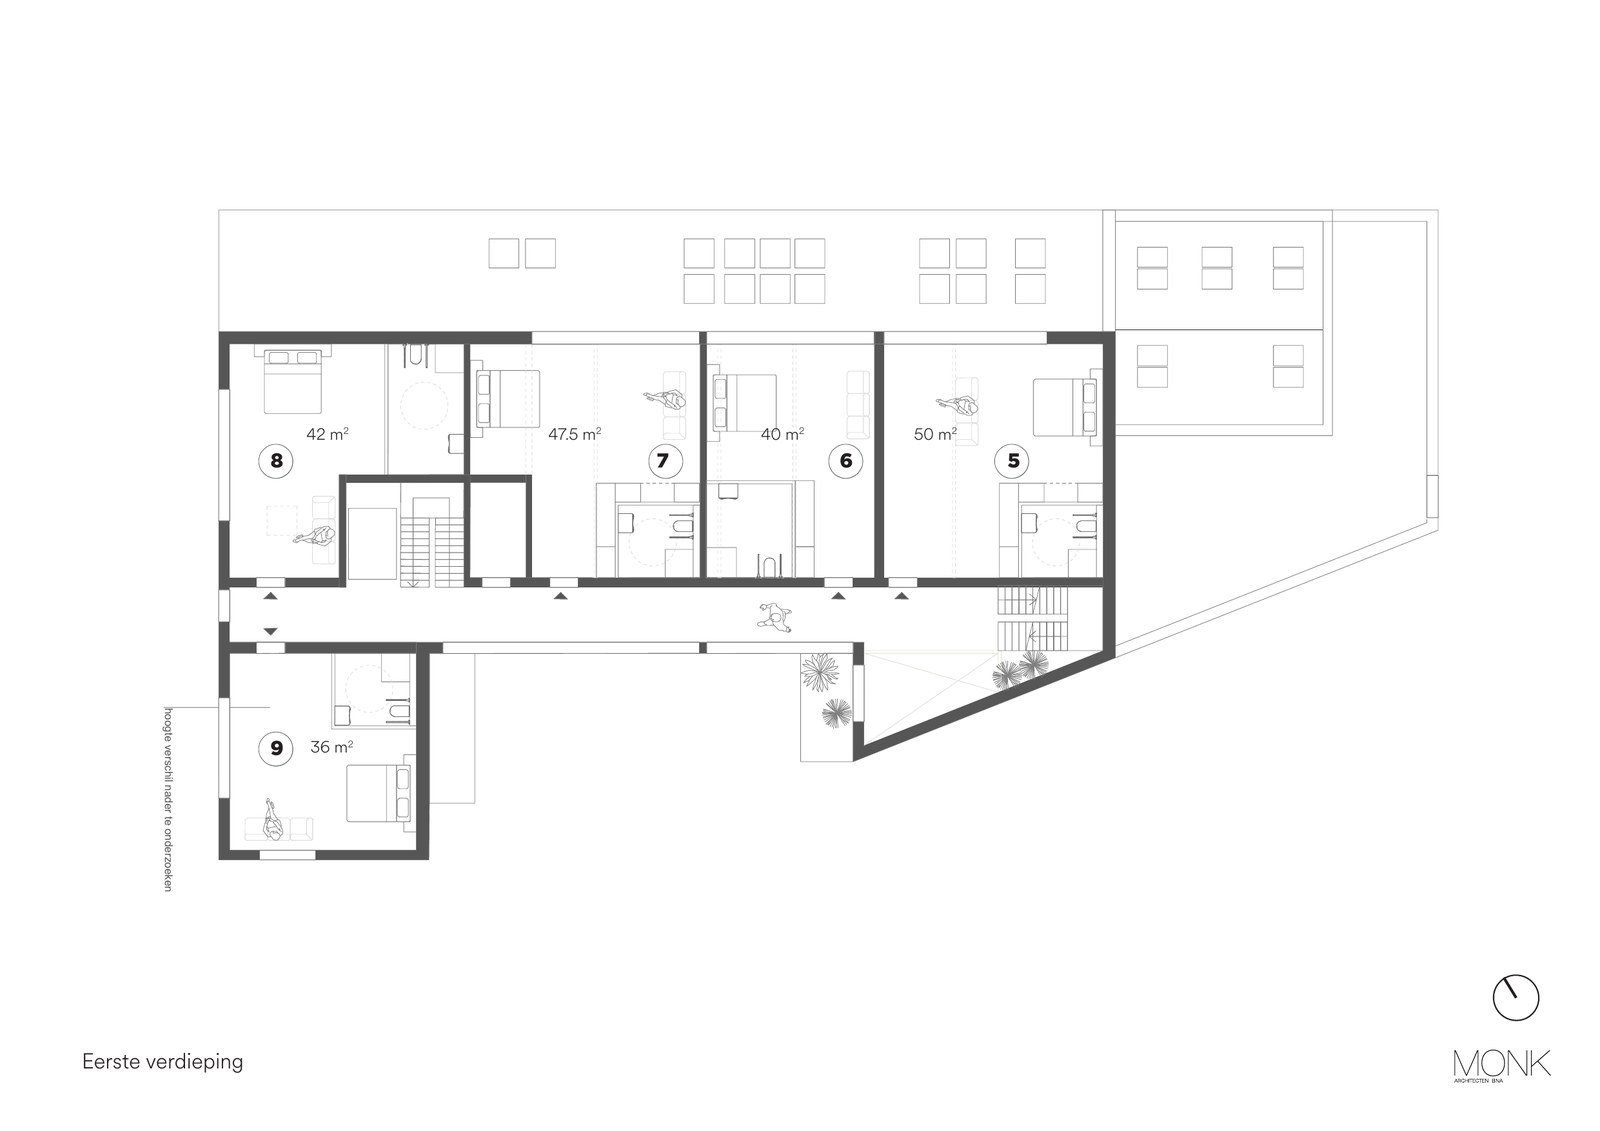
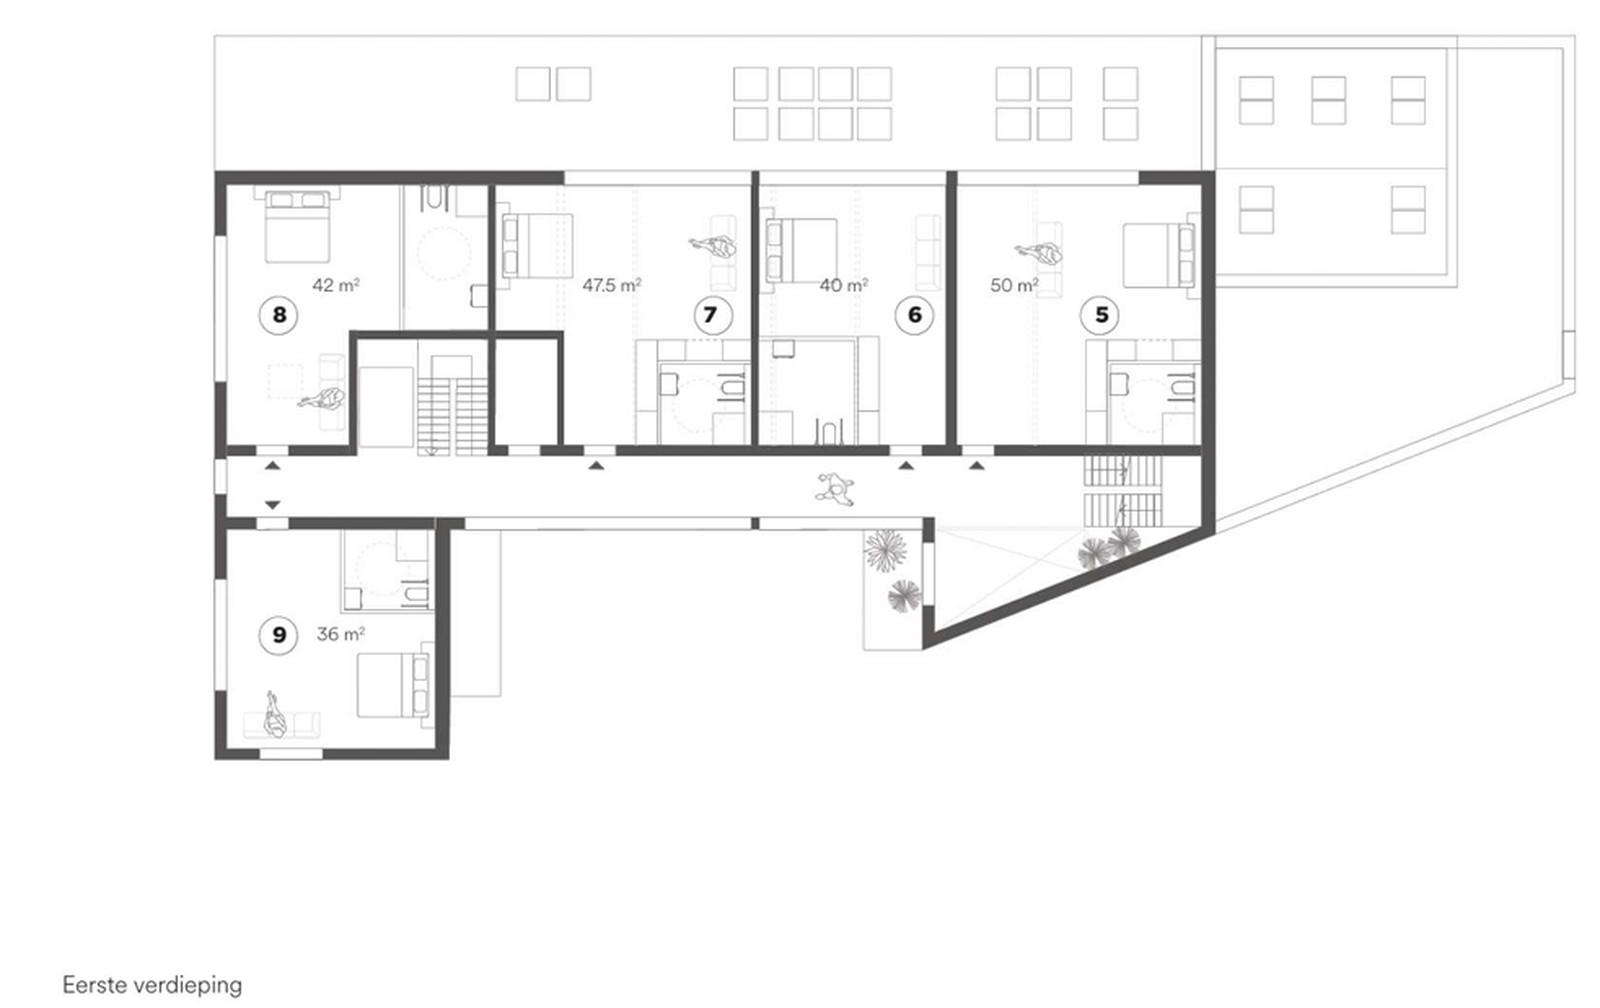
Swap in new MONK floor plans (BG/1e/vliering); convert hotspots to polygons; vliering as clickable plan with auto-placed number badges

diff --git a/index.html b/index.html
@@ -1370,17 +1370,12 @@
           <img class="plan-img" src="img/bg.jpg" alt="Plattegrond begane grond · Maerten's Tuyn" loading="lazy">
           <svg class="plan-svg" viewBox="0 0 100 100" preserveAspectRatio="none" aria-hidden="true">
             <g class="hotspots">
-              <rect class="hot" data-id="4" x="14"   y="30" width="15"   height="29" rx="0.6" />
-              <rect class="hot" data-id="2" x="29"   y="30" width="12.5" height="37" rx="0.6" />
-              <rect class="hot" data-id="1" x="41.5" y="30" width="14.5" height="37" rx="0.6" />
-              <rect class="hot" data-id="3" x="14"   y="65" width="13"   height="23" rx="0.6" />
+              <polygon class="hot" data-id="4" points="13,18 30,18 30,43 13,43" />
+              <polygon class="hot" data-id="2" points="33,18 46,18 46,52 33,52" />
+              <polygon class="hot" data-id="1" points="46,18 58,18 58,52 46,52" />
+              <polygon class="hot" data-id="3" points="13,54 27,54 27,76 13,76" />
             </g>
-            <g class="hotspot-labels">
-              <g class="hot-label" data-for="4"><circle cx="21.5"  cy="44.5" r="2.1" /><text x="21.5"  y="45.3">4</text></g>
-              <g class="hot-label" data-for="2"><circle cx="35.25" cy="48.5" r="2.1" /><text x="35.25" y="49.3">2</text></g>
-              <g class="hot-label" data-for="1"><circle cx="48.75" cy="48.5" r="2.1" /><text x="48.75" y="49.3">1</text></g>
-              <g class="hot-label" data-for="3"><circle cx="20.5"  cy="76.5" r="2.1" /><text x="20.5"  y="77.3">3</text></g>
-            </g>
+            <g class="hotspot-labels"></g>
           </svg>
         </div>
         <!-- 1e pane -->
@@ -1388,32 +1383,24 @@
           <img class="plan-img" src="img/1e.jpg" alt="Plattegrond eerste verdieping · Maerten's Tuyn" loading="lazy">
           <svg class="plan-svg" viewBox="0 0 100 100" preserveAspectRatio="none" aria-hidden="true">
             <g class="hotspots">
-              <rect class="hot" data-id="8" x="17" y="30" width="12" height="24" rx="0.6" />
-              <rect class="hot" data-id="7" x="29" y="30" width="13" height="24" rx="0.6" />
-              <rect class="hot" data-id="6" x="42" y="30" width="12" height="24" rx="0.6" />
-              <rect class="hot" data-id="5" x="54" y="30" width="16" height="24" rx="0.6" />
-              <rect class="hot" data-id="9" x="17" y="59" width="13" height="21" rx="0.6" />
+              <polygon class="hot" data-id="8" points="13,17 29,17 29,45 13,45" />
+              <polygon class="hot" data-id="7" points="29,17 47,17 47,45 29,45" />
+              <polygon class="hot" data-id="6" points="47,17 58,17 58,45 47,45" />
+              <polygon class="hot" data-id="5" points="58,17 72,17 72,45 58,45" />
+              <polygon class="hot" data-id="9" points="13,52 29,52 29,75 13,75" />
             </g>
-            <g class="hotspot-labels">
-              <g class="hot-label" data-for="8"><circle cx="23"  cy="42" r="2.1" /><text x="23"  y="42.8">8</text></g>
-              <g class="hot-label" data-for="7"><circle cx="35.5" cy="42" r="2.1" /><text x="35.5" y="42.8">7</text></g>
-              <g class="hot-label" data-for="6"><circle cx="48"  cy="42" r="2.1" /><text x="48"  y="42.8">6</text></g>
-              <g class="hot-label" data-for="5"><circle cx="62"  cy="42" r="2.1" /><text x="62"  y="42.8">5</text></g>
-              <g class="hot-label" data-for="9"><circle cx="23.5" cy="69.5" r="2.1" /><text x="23.5" y="70.3">9</text></g>
-            </g>
+            <g class="hotspot-labels"></g>
           </svg>
         </div>
         <!-- Vliering pane -->
         <div class="plan-pane" data-pane="vl">
-          <div class="vliering-card">
-            <img src="img/photo-zolder.jpg" alt="Vliering interieur" loading="lazy">
-            <div class="vliering-info">
-              <p class="vt-eyebrow">Vliering · ~40 m²</p>
-              <h3>Gedeelde logeerunit</h3>
-              <p>Een ruimte op de zolderverdieping die bewoners kunnen reserveren voor logés, familie en vrienden op bezoek. Niet apart verhuurbaar; onderdeel van de gemeenschappelijke voorzieningen.</p>
-              <button class="vliering-btn" id="vlieringBtn">Bekijk impressie</button>
-            </div>
-          </div>
+          <img class="plan-img" src="img/vliering.jpg" alt="Plattegrond vliering · Maerten's Tuyn" loading="lazy">
+          <svg class="plan-svg" viewBox="0 0 100 100" preserveAspectRatio="none" aria-hidden="true">
+            <g class="hotspots">
+              <polygon class="hot" data-id="vl" points="52,12 82,12 82,55 52,55" />
+            </g>
+            <g class="hotspot-labels"></g>
+          </svg>
         </div>
 
         <!-- Tooltip floats above plan on hover -->
@@ -1748,14 +1735,39 @@ document.querySelectorAll('.reveal').forEach(el => observer.observe(el));
       h.addEventListener('keydown', (e) => { if(e.key === 'Enter' || e.key === ' '){ e.preventDefault(); openDrawer(id); } });
       h.setAttribute('tabindex', '0');
       h.setAttribute('role', 'button');
-      h.setAttribute('aria-label', `Woning ${id} · bekijk details`);
+      h.setAttribute('aria-label', id === 'vl' ? 'Vliering · bekijk details' : `Woning ${id} · bekijk details`);
+    });
+    placeLabels();
+  }
+
+  function placeLabels(){
+    document.querySelectorAll('.plan-pane').forEach(pane => {
+      const lg = pane.querySelector('.hotspot-labels');
+      if(!lg) return;
+      lg.innerHTML = '';
+      pane.querySelectorAll('.hot').forEach(h => {
+        const id = h.dataset.id;
+        if(id === 'vl') return;
+        const pts = h.getAttribute('points').trim().split(/\s+/).map(p => p.split(',').map(Number));
+        let cx=0, cy=0; pts.forEach(p => { cx+=p[0]; cy+=p[1]; });
+        cx/=pts.length; cy/=pts.length;
+        const g = document.createElementNS('http://www.w3.org/2000/svg','g');
+        g.setAttribute('class','hot-label'); g.setAttribute('data-for', id);
+        g.innerHTML = `<circle cx="${cx}" cy="${cy}" r="2.1"></circle><text x="${cx}" y="${cy+0.75}">${id}</text>`;
+        lg.appendChild(g);
+      });
     });
   }
 
   function showTooltip(e, id){
-    const w = woningen[id];
-    tooltip.querySelector('.tt-num').textContent = `Woning ${id}`;
-    tooltip.querySelector('.tt-meta').textContent = `Type ${w.type} · ${w.m2} m² · €${w.huur.toLocaleString('nl-NL')}/mnd`;
+    if(id === 'vl'){
+      tooltip.querySelector('.tt-num').textContent = 'Vliering';
+      tooltip.querySelector('.tt-meta').textContent = '40 m² · gedeelde logeerunit';
+    } else {
+      const w = woningen[id];
+      tooltip.querySelector('.tt-num').textContent = `Woning ${id}`;
+      tooltip.querySelector('.tt-meta').textContent = `Type ${w.type} · ${w.m2} m² · €${w.huur.toLocaleString('nl-NL')}/mnd`;
+    }
     tooltip.classList.add('show');
     moveTooltip(e);
   }
@@ -1885,7 +1897,7 @@ document.querySelectorAll('.reveal').forEach(el => observer.observe(el));
   }
 
   // Vliering big button → opens drawer
-  document.getElementById('vlieringBtn').addEventListener('click', () => openDrawer('vl'));
+  var _vb = document.getElementById('vlieringBtn'); if(_vb) _vb.addEventListener('click', () => openDrawer('vl'));
 
   // Close handlers
   drawer.querySelector('.drawer-close').addEventListener('click', closeDrawer);